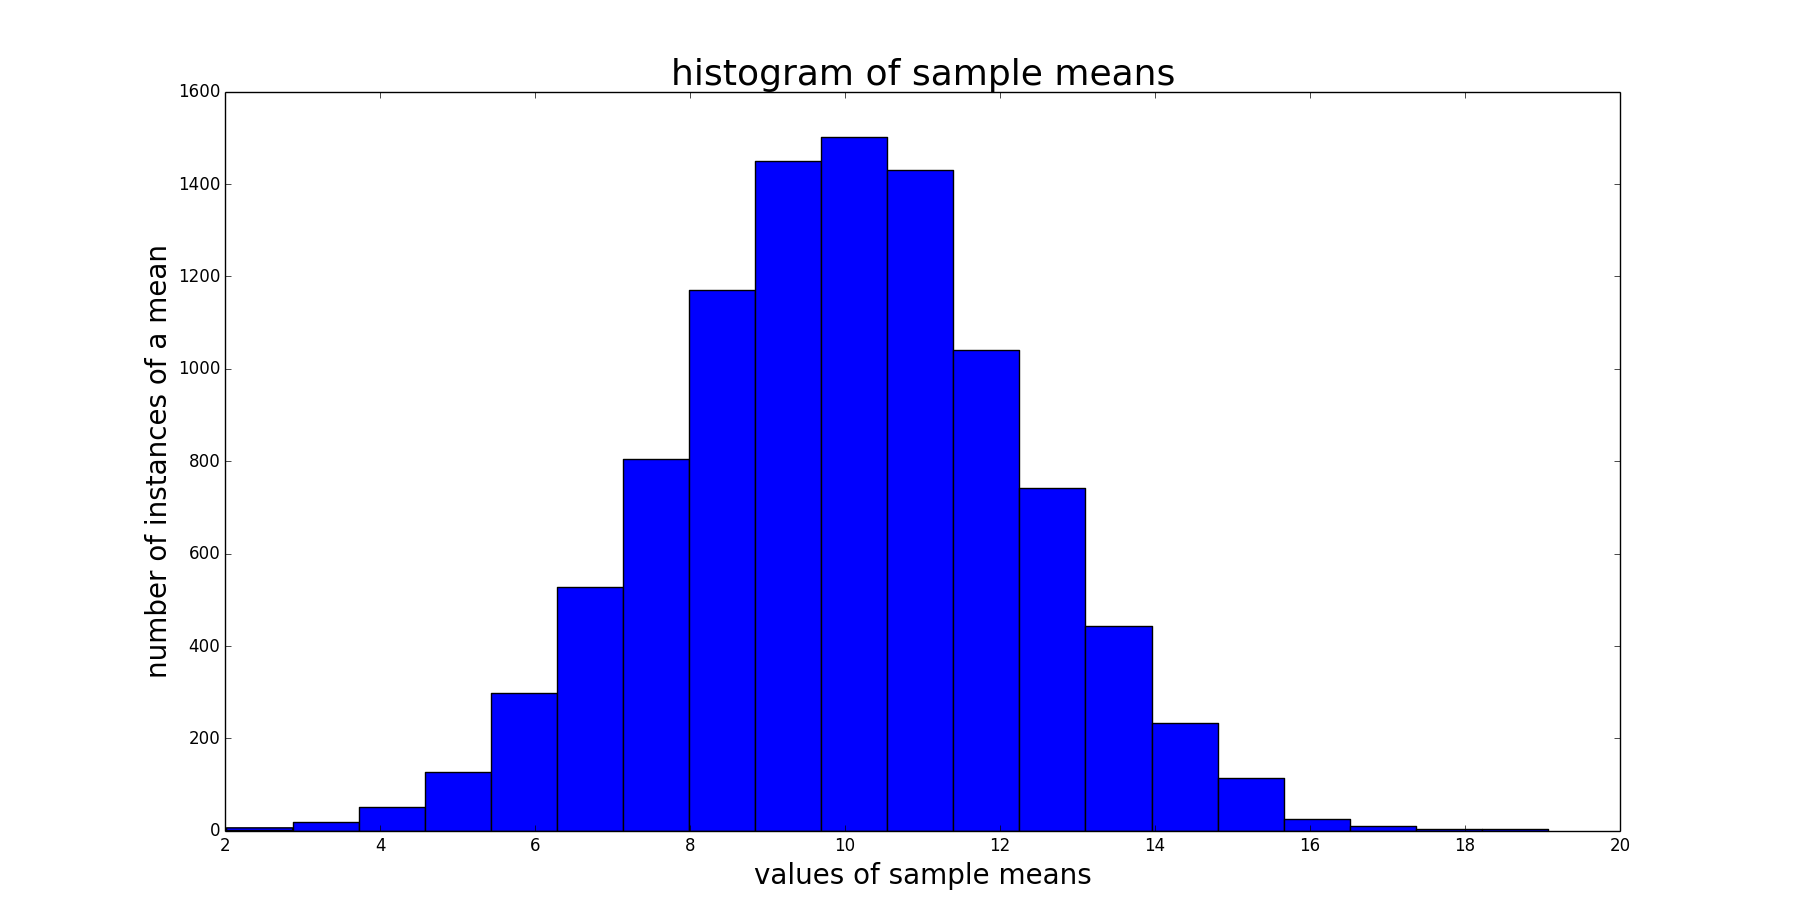
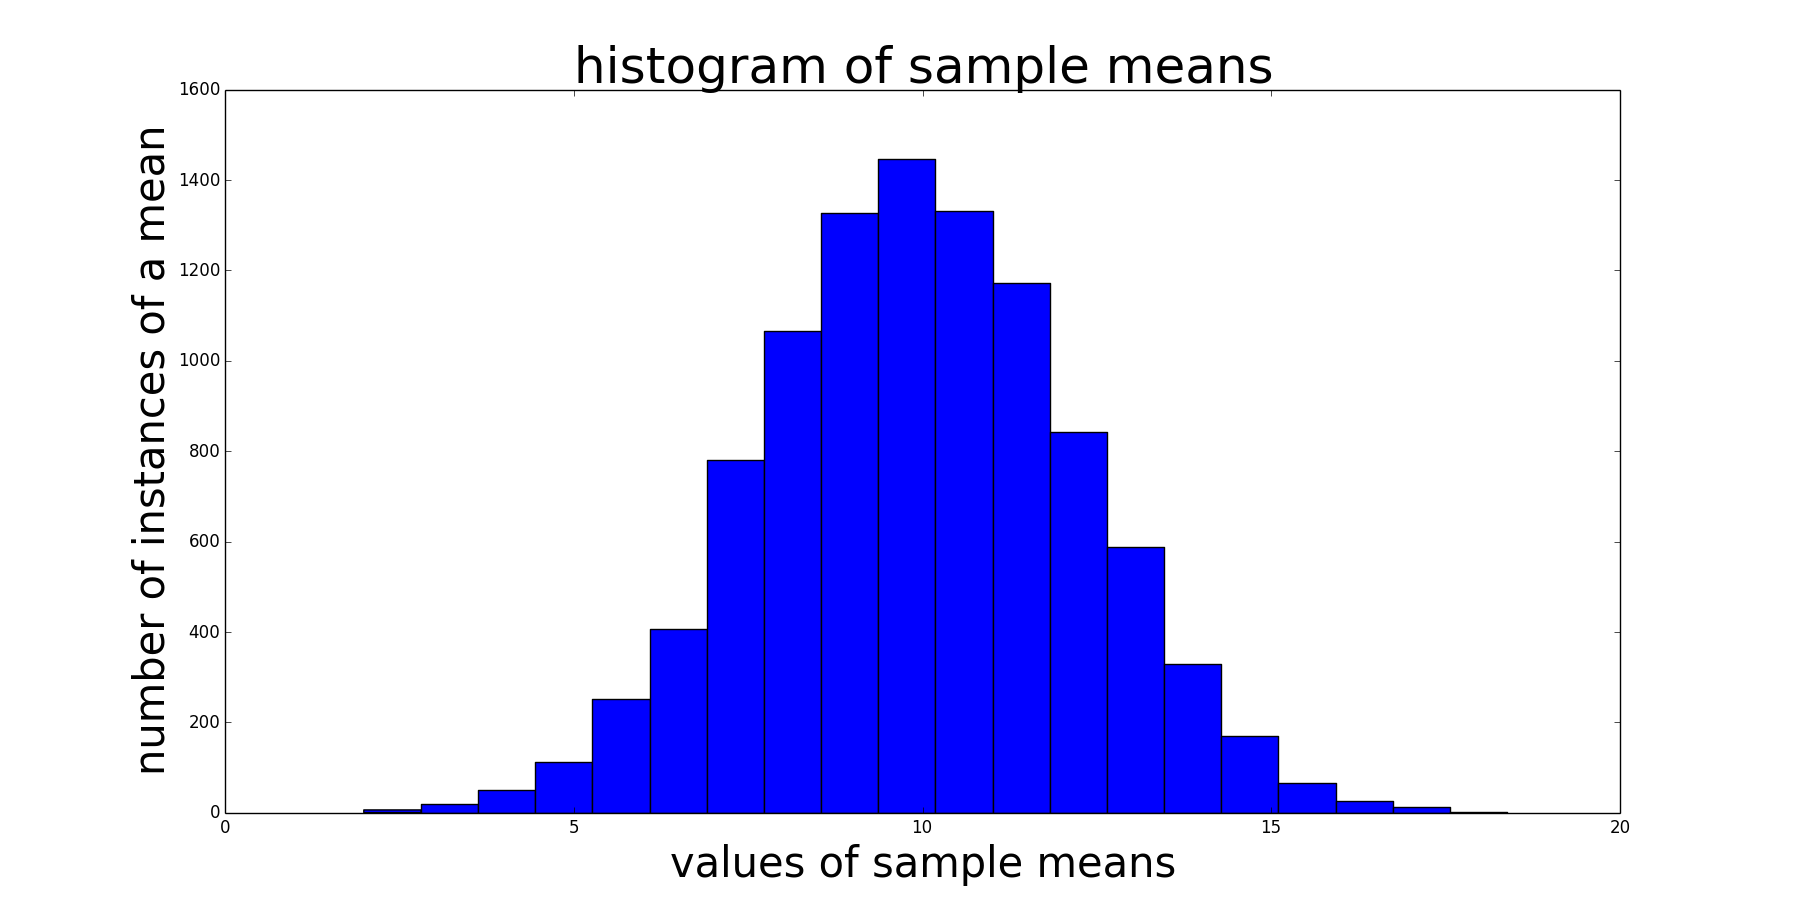
Minor fixes and tweaks.

diff --git a/Java_Concurrency_Demos/ThreadPoolPractice/src/practice/WorkerThread.java b/Java_Concurrency_Demos/ThreadPoolPractice/src/practice/WorkerThread.java
@@ -2,15 +2,15 @@ package practice;
 
 public class WorkerThread implements Runnable {
 
-	private String command;
+	private String task;
 
 	public WorkerThread(String s) {
-		this.command = s;
+		this.task = s;
 	}
 
 	@Override
 	public void run() {
-		System.out.println(Thread.currentThread().getName() + " Start. Command = " + command);
+		System.out.println(Thread.currentThread().getName() + " Start. Task = " + task);
 		processCommand();
 		System.out.println(Thread.currentThread().getName() + " End.");
 	}
@@ -25,6 +25,6 @@ public class WorkerThread implements Runnable {
 
 	@Override
 	public String toString() {
-		return this.command;
+		return this.task;
 	}
 }

diff --git a/Java_Concurrency_Demos/ThreadPoolPractice/hist.py b/Java_Concurrency_Demos/ThreadPoolPractice/hist.py
@@ -8,8 +8,8 @@ for item in f:
 
 plt.hist(x, bins=20)
 
-plt.xlabel("values of sample means", fontsize=20)
-plt.ylabel("number of instances of a mean", fontsize=20)
-plt.title("histogram of sample means", fontsize=26)
+plt.xlabel("values of sample means", fontsize=30)
+plt.ylabel("number of instances of a mean", fontsize=30)
+plt.title("histogram of sample means", fontsize=36)
 
 plt.show()
